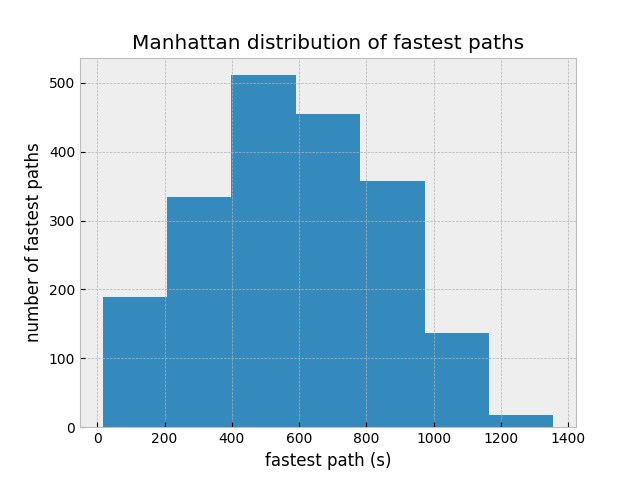
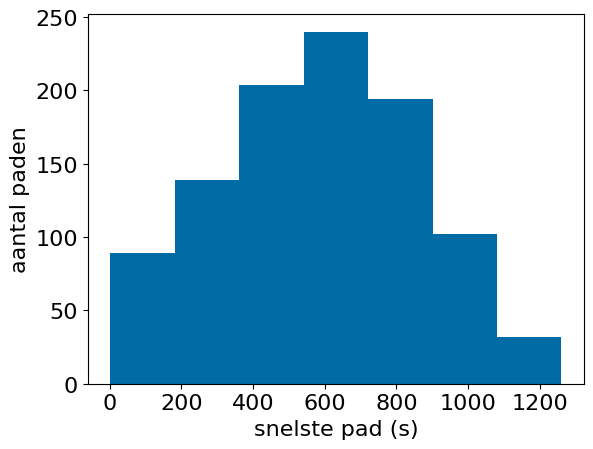
extra plotjes van aster en stratified sampling

diff --git a/generate_data_greedy.py b/generate_data_greedy.py
@@ -13,6 +13,8 @@ import greedy_manhattan as gm
 import node_functions as nf
 import coordinate_functions as cf
 import gravity_pressure as gp
+import a_star
+
 
 import stratified_sampling as ss
 import matplotlib as mpl
@@ -83,14 +85,16 @@ def data_generator(name, functions, foldername, number_of_routes_pre_compute=80,
             reached_end_node[i] = 1
             result_stretch[i] = result / weight_path[i]
 
-    elif function == gtas.greedy_forwarding_then_a_star:
-      max_velocity = fgd.get_max_velocity(graph)
+    elif function == gtas.greedy_forwarding_then_a_star: #or function == a_star.A_star_priority_queue:
+
+      average_velocity = fgd.get_weigted_average_velocity(graph)
 
       for i in range(number_of_routes): # do the greedy functions
         start_time = time.time()
 
-        result, ratio_travelled = function(node_list[list_indices_start[i]], node_list[list_indices_end[i]], graph, max_velocity=max_velocity, ratio_travelled=True) # result like route weight of the desired path
-        
+        result, ratio_travelled = function(node_list[list_indices_start[i]], node_list[list_indices_end[i]], graph, velocity=average_velocity, ratio_travelled=True) # result like route weight of the desired path
+        #result, ratio_travelled = function(node_list[list_indices_start[i]], node_list[list_indices_end[i]], graph, velocity=average_velocity),1 # pure a star always finds a way
+
         ratio_travelled_list[i] = ratio_travelled
 
         if result != np.inf: # only calculate how long the path was once one was found with greedy forwarding  else takes so long   
@@ -177,6 +181,10 @@ def data_generator(name, functions, foldername, number_of_routes_pre_compute=80,
 
     arrived_percentage = arrived / values
 
+    font = { 'size'   : 16}
+
+    mpl.rc('font', **font)
+
     # the below plot will tell us which percentage of a route of a certain binned weight will arrive
     plt.hist(base[:-1], base, weights=arrived_percentage) 
     plt.xlabel('snelste reistijd (s)')
@@ -186,11 +194,12 @@ def data_generator(name, functions, foldername, number_of_routes_pre_compute=80,
     plt.clf() 
 
     # average stretch per bin 
-    plt.errorbar(base[:-1] + step_size/2, average_stretch, yerr=standard_dev_on_mean_stretch, linewidth=3) # the :-1 because we only plot the middle and end value + half is outside our plotting region
+    plt.errorbar(base[:-1] + step_size/2, average_stretch, yerr=standard_dev_on_mean_stretch, linewidth=3,ecolor='tab:purple', elinewidth=3, linestyle='--') # the :-1 because we only plot the middle and end value + half is outside our plotting region
     # +/2 because we want centered at center of bin
     plt.xlabel('snelste reistijd (s)')
     plt.ylabel('gemiddelde rek')
     plt.ylim(bottom=0)
+
     #plt.title(f'{name} average stretch')
     plt.savefig(f'./{foldername[x]}/{name}_average_stretch.png',bbox_inches='tight')
     plt.clf() 
@@ -207,18 +216,20 @@ def data_generator(name, functions, foldername, number_of_routes_pre_compute=80,
   # generate timing plot
   plt.bar(foldernames, timing_array)
   x = np.arange(len(foldernames))
-  plt.xticks(x, foldernames, fontsize='10', rotation=-35)
+  plt.xticks(x, foldernames, fontsize='13', rotation=-35)
   #plt.title(f'{name} execution time per succesful path')
-  plt.ylabel('execution time per path (s)')
+  plt.ylabel('uitvoeringstijd per pad (s)')
   plt.savefig(f'./speed_comparison/{name} greedy_execution_time_per_path.png', bbox_inches='tight')
   plt.clf()
   
-name_list = ['New Dehli','Nairobi', 'Rio de Janeiro', 'Brugge', 'Manhattan']
+#name_list = ['New Dehli','Nairobi', 'Rio de Janeiro', 'Brugge', 'Manhattan']
 
-functions = [gp.gravity_pressure] #,hr.hyperbolic_greedy_forwarding gf.greedy_forwarding ,gfwe.greedy_forwarding_with_edge_weight, gtas.greedy_forwarding_then_a_star,  grpf.greedy_forwarding_rpf, gm.manhattan_greedy_forwarding,gp.gravity_pressure]
+name_list = ['Brugge', 'Manhattan']
 
-foldernames = ['gravity_pressure'] #, 'normal_greedy','greedy_with_edge_weight','greedy_then_a_star', 'greedy_rpf', 'greedy_manhattan', 'greedy_hyperbolic','gravity_pressure', 'greedy_hyperbolic']
+functions = [gf.greedy_forwarding, gfwe.greedy_forwarding_with_edge_weight, ] #,hr.hyperbolic_greedy_forwarding gf.greedy_forwarding ,gfwe.greedy_forwarding_with_edge_weight, gtas.greedy_forwarding_then_a_star,  grpf.greedy_forwarding_rpf, gm.manhattan_greedy_forwarding,gp.gravity_pressure, gp.gravity_pressure]# a_star.A_star_priority_queue, 
 
+foldernames = ['normal_greedy', 'greedy_with_edge_weight', ] #, 'normal_greedy','greedy_with_edge_weight','greedy_then_a_star', 'greedy_rpf', 'greedy_manhattan', 'greedy_hyperbolic','gravity_pressure', 'greedy_hyperbolic']
+#'pure_A_star'
 for name in name_list:
-  data_generator(name, functions, foldernames,number_of_routes_pre_compute=10, step_size=150, amount_of_samples_per_bin=70)
+  data_generator(name, functions, foldernames,number_of_routes_pre_compute=50, step_size=150, amount_of_samples_per_bin=50)
   print(name)

diff --git a/compare_speed.py b/compare_speed.py
@@ -7,7 +7,7 @@ import stratified_sampling as ss
 
 import time
 import matplotlib.pyplot as plt
-from fix_graph_data import get_max_velocity
+from fix_graph_data import get_max_velocity, get_weigted_average_velocity
 import matplotlib as mpl
 
 mpl.style.use('tableau-colorblind10')
@@ -17,19 +17,23 @@ np.random.seed(42)
 compares the speed of dwpq dijkstra dijkstra of networkx and a star and asserts that they give back the right distance
 """
 
+
 def speed_comparator(name):
   graph_basic = nx.read_gpickle(f'./graph_pickle/{name}.gpickle')
   
   max_velocity = get_max_velocity(graph_basic) # gets the max velocity of all edges, useful for A*
+  average_vel = get_weigted_average_velocity(graph_basic)
+  
   node_list = list(graph_basic.nodes())
   
   _ , list_indices_start, list_indices_end = ss.stratified_sampling(50, 50, 150, node_list, graph_basic)
-
+  assert 1 == 2
   dijkstra_networkx_speed = 0
   dijkstra_speed = 0
   dwpq_speed =  0
   a_star_speed = 0
   a_star_wpq_speed = 0
+  a_star_average_vel = 0
   
   for i in range(len(list_indices_start)):
   
@@ -53,13 +57,35 @@ def speed_comparator(name):
     e = a_star.A_star_priority_queue(node_list[list_indices_start[i]], node_list[list_indices_end[i]], graph_basic, max_velocity)
     a_star_wpq_speed += time.time() - start
 
-    assert abs(b-c) < 10**-2 and abs(d-c) < 10**-2 and abs(a-c) < 10**-2 and abs(a-e) < 10**-2, f'{c} dwpq and {b} normal dijkstra {d} astar {a} networkx {e} astar wpq'
+    start = time.time()
+    f = a_star.A_star_priority_queue(node_list[list_indices_start[i]], node_list[list_indices_end[i]], graph_basic, average_vel)
+    a_star_average_vel += time.time() - start
     
+    assert abs(b-c) < 10**-2 and abs(d-c) < 10**-2 and abs(a-c) < 10**-2 and abs(a-e) < 10**-2, f'{c} dwpq and {b} normal dijkstra {d} astar {a} networkx {e} astar wpq'
 
-  plt.bar(['Networkx dijkstra', 'Dijkstra', 'Dijkstra w/ pq', 'A*', 'A* w/ pq'],np.array([dijkstra_networkx_speed, dijkstra_speed, dwpq_speed, a_star_speed, a_star_wpq_speed])/len(list_indices_start))
-  plt.title(f'{name} execution time per path')
-  plt.xlabel('method')
-  plt.ylabel('execution time per path (s)')
-  plt.savefig(f'./speed_comparison/{name}_execution_time_per_path.png')
+  font = { 'size'   : 16}
+
+  mpl.rc('font', **font)
+
+  naming = ['Networkx Dijkstra', 'Dijkstra', 'Dijkstra met pq', 'A*', 'A* met pq','A* niet-toelaatbaar']
+  plt.bar(naming,np.array([dijkstra_networkx_speed, dijkstra_speed, dwpq_speed, a_star_speed, a_star_wpq_speed, a_star_average_vel])/len(list_indices_start))
+  x = np.arange(len(naming))
+  plt.xticks(x, naming, fontsize='14', rotation=-35)
+
+
+  plt.ylabel('uitvoeringstijd per pad (s)')
+  plt.savefig(f'./speed_comparison/{name}_execution_time_per_path.png',bbox_inches='tight')
+  plt.clf()
+  # tweede figuur want conventionele dijkstra is wat te groot voor de figuur
+
+  naming = ['Networkx Dijkstra', 'Dijkstra met pq', 'A*', 'A* met pq','A* niet-toelaatbaar']
+  plt.bar(naming,np.array([dijkstra_networkx_speed, dwpq_speed, a_star_speed, a_star_wpq_speed, a_star_average_vel])/len(list_indices_start))
+  x = np.arange(len(naming))
+  plt.xticks(x, naming, fontsize='14', rotation=-35)
+
+
+  plt.ylabel('uitvoeringstijd per pad (s)')
+  plt.savefig(f'./speed_comparison/{name}_execution_time_per_path_ingezoomd.png',bbox_inches='tight')
+  plt.clf()
 
 speed_comparator('Brugge')

diff --git a/a_star.py b/a_star.py
@@ -6,7 +6,7 @@ from queue import PriorityQueue
 this file is able to calculate the shortest time using a star with the euclidian distance with and without priority queue
 """
 
-def A_star(id1, id2, graph, max_velocity): # id1 is start node id2 is go to node
+def A_star(id1, id2, graph, velocity): # id1 is start node id2 is go to node
     inf = np.inf
     # heuristic function 
     total_nodes = graph.nodes()
@@ -25,7 +25,7 @@ def A_star(id1, id2, graph, max_velocity): # id1 is start node id2 is go to node
         g_score[node] = inf
     
     g_score[id1] = 0
-    f_score[id1] = cf.euclid_distance(id1, id2, graph) / max_velocity * 3.6 # f score is a lower bound
+    f_score[id1] = cf.euclid_distance(id1, id2, graph) / velocity * 3.6 # f score is a lower bound
     empty_set = set()
 
     while open_set != empty_set:
@@ -50,7 +50,7 @@ def A_star(id1, id2, graph, max_velocity): # id1 is start node id2 is go to node
             if tentative_g_score < g_score[neighbor_node]:
                 came_from[neighbor_node] = current_node
                 g_score[neighbor_node] = tentative_g_score # CHANGE TO MAX VEL
-                f_score[neighbor_node] = g_score[neighbor_node] + cf.euclid_distance(neighbor_node, id2, graph) / max_velocity * 3.6 # this will make it a good lower bound
+                f_score[neighbor_node] = g_score[neighbor_node] + cf.euclid_distance(neighbor_node, id2, graph) / velocity * 3.6 # this will make it a good lower bound
 
                 open_set.add(neighbor_node) # this will check if already in it so just add it
     print("hier")
@@ -61,7 +61,7 @@ def A_star(id1, id2, graph, max_velocity): # id1 is start node id2 is go to node
 
 
 
-def A_star_priority_queue(id1, id2, graph, max_velocity): # id1 is start node id2 is go to node
+def A_star_priority_queue(id1, id2, graph, velocity): # id1 is start node id2 is go to node
     inf = np.inf
     # heuristic function 
     total_nodes = graph.nodes()
@@ -82,7 +82,7 @@ def A_star_priority_queue(id1, id2, graph, max_velocity): # id1 is start node id
         g_score[node] = inf
     
     g_score[id1] = 0
-    f_score[id1] = cf.euclid_distance(id1, id2, graph) / max_velocity * 3.6 # f score is a lower bound
+    f_score[id1] = cf.euclid_distance(id1, id2, graph) / velocity * 3.6 # f score is a lower bound
     priority_queue.put((f_score[id1], id1))
     
 
@@ -104,7 +104,7 @@ def A_star_priority_queue(id1, id2, graph, max_velocity): # id1 is start node id
             if tentative_g_score < g_score[neighbor_node]:
                 came_from[neighbor_node] = current_node
                 g_score[neighbor_node] = tentative_g_score # CHANGE TO MAX VEL
-                f_score[neighbor_node] = g_score[neighbor_node] + cf.euclid_distance(neighbor_node, id2, graph) / max_velocity * 3.6 # this will make it a good lower bound
+                f_score[neighbor_node] = g_score[neighbor_node] + cf.euclid_distance(neighbor_node, id2, graph) / velocity * 3.6 # this will make it a good lower bound
                 priority_queue.put((f_score[neighbor_node], neighbor_node))
 
         visited.add(current_node)

diff --git a/stratified_sampling.py b/stratified_sampling.py
@@ -1,11 +1,10 @@
 import networkx as nx
 import numpy as np
-
+import matplotlib.pyplot as plt
+import matplotlib as mpl
 import coordinate_functions as cf
 from scipy.optimize import curve_fit
 
-amount_of_samples_per_bin = 50
-number_of_routes_pre_compute = 80
 np.random.seed(42)
 
 def function(x, A): 
@@ -22,7 +21,9 @@ one can fasten the selection procedure by quite some time one can use: osmnx.dis
 """
 
 def stratified_sampling(amount_of_samples_per_bin, number_of_routes_pre_compute, step_size, node_list, graph):
-
+    
+    np.random.seed(42)
+    
     list_indices_start = np.random.randint(0, len(node_list), size=number_of_routes_pre_compute) # first generate random numbers this is quicker
     list_indices_end = np.random.randint(0, len(node_list), size=number_of_routes_pre_compute)
 
@@ -38,9 +39,27 @@ def stratified_sampling(amount_of_samples_per_bin, number_of_routes_pre_compute,
         # calculate the shortest distance once
         weight_path[i] = nx.shortest_path_length(graph, node_list[list_indices_start[i]], node_list[list_indices_end[i]], 'travel_time')
         distance[i] = cf.distance(node_list[list_indices_start[i]], node_list[list_indices_end[i]],graph)
+    
+
+    font = { 'size'   : 16}
+
+    mpl.rc('font', **font)
+    
+    mpl.style.use('tableau-colorblind10')
+    #plt.scatter(distance, weight_path, marker='x', s=17.5, c='tab:purple')
 
     popt, pcov = curve_fit(function, distance, weight_path) # your data x, y to fit
+    
+    """
+    xvals = np.arange(np.min(distance)-5, np.max(distance)+5) # step is 1 by defalult
+    plt.plot(xvals, xvals*popt,  linewidth=2.5)
+    plt.xlabel('hemelsbrede afstand (m)')
+    plt.ylabel('reistijd (s)')
+    plt.savefig('./stratified/rechtevenredig.png', bbox_inches='tight')
+    plt.clf()
+    """
 
+    
     list_indices_start = list(list_indices_start)
     list_indices_end = list(list_indices_end)
 

diff --git a/get_degree_distribution.py b/get_degree_distribution.py
@@ -1,26 +1,31 @@
 import matplotlib.pyplot as plt
 import numpy as np
-import fix_graph_data as fgd
+import networkx as nx
 
 import matplotlib as mpl
 mpl.style.use('tableau-colorblind10')
 
 def plot_degree_dist(name):
-  graph = fgd.load_graph(name)
+  graph = nx.read_gpickle(f'./graph_pickle/{name}.gpickle')
   
   degrees = np.zeros(len(graph.nodes()),dtype=int)
   
   for i, vertex in enumerate(graph.nodes()): # for every node get how many neighbors
     degrees[i] = graph.degree(vertex)
-  bins = [i for i in range(1, np.max(degrees)+2)] #
+  print(degrees)
+  bins = np.array([i for i in range(1, np.max(degrees)+1)]) #
+  font = { 'size'   : 16}
 
-  plt.hist(degrees, bins=bins)
-  plt.xlabel('degree')
-  plt.ylabel('number of nodes')
-  plt.title(f'{name} node distribution')
-  plt.savefig(f'./degree_distribution/{name}_node_distribution.png')
+  mpl.rc('font', **font)
+  x = np.arange(len(bins))
+  plt.hist(degrees, bins=bins, align='left')
+  plt.xlabel('graad')
+  plt.ylabel('aantal')
+  plt.xticks(x, bins-1)
+  plt.savefig(f'./degree_distribution/{name}_node_distribution.png', bbox_inches='tight')
   plt.clf()
-name_list = ['new_dehli_5km_(28.644800, 77.216721)', 'nairobi_5km_(-1.28333, 36.81667)',  'manhattan_5km_(40.754932, -73.984016)', 'rio_de_janeiro_5km_(-22.908333, -43.196388)', 'brugge_5km_(51.209348, 3.224700)']
+
+name_list = ['New Dehli','Nairobi', 'Rio de Janeiro', 'Brugge', 'Manhattan']
 
 for name in name_list:
   plot_degree_dist(name)

diff --git a/route_time_per_city.py b/route_time_per_city.py
@@ -10,7 +10,11 @@ name_list = ['New Dehli', 'Nairobi', 'Manhattan', 'Rio de Janeiro', 'Brugge']
 
 def get_route_weight(name, number_of_routes): # generates the data for the desired function
   graph_basic =  nx.read_gpickle(f'./graph_pickle/{name}.gpickle')
-  
+
+  font = { 'size'   : 16}
+
+  mpl.rc('font', **font)
+
   node_list = list(graph_basic.nodes())
   list_indices_start = np.random.randint(0, len(node_list), size=number_of_routes) # first generate random numbers this is quicker
   list_indices_end = np.random.randint(0, len(node_list), size=number_of_routes)
@@ -31,14 +35,14 @@ def get_route_weight(name, number_of_routes): # generates the data for the desir
 
   # how many routes are in each bin
   plt.hist(weight_path, base)
-  plt.xlabel('fastest path (s)')
-  plt.ylabel('number of fastest paths')
-  plt.title(f'{name} distribution of fastest paths')
-  plt.savefig(f'./route_weight/{name}_route_weight_distribution.png')
+  plt.xlabel('snelste pad (s)')
+  plt.ylabel('aantal paden')
+
+  plt.savefig(f'./route_weight/{name}_route_weight_distribution.png', bbox_inches='tight')
   plt.clf()
-  print('done') 
+
 
 for name in name_list:
-  get_route_weight(name, 2000) 
+  get_route_weight(name, 1000) 
 
   

diff --git a/greedy_then_a_star.py b/greedy_then_a_star.py
@@ -9,7 +9,7 @@ import a_star
 does normal greedy forwarding till not getting closer then do a star
 """
 
-def greedy_forwarding_then_a_star(id1, id2, graph, max_velocity, ratio_travelled=False, plot_stuck=False): # id1 is start node id2 is go to node, plot stuck never used cause never stuck
+def greedy_forwarding_then_a_star(id1, id2, graph, velocity, ratio_travelled=False, plot_stuck=False): # id1 is start node id2 is go to node, plot stuck never used cause never stuck
   inf = np.inf
   total_nodes = graph.nodes()
   
@@ -34,7 +34,7 @@ def greedy_forwarding_then_a_star(id1, id2, graph, max_velocity, ratio_travelled
       """
       if the node was already visited or the node that will be visited does not seem to have any neighbors
       """
-      sec_travelled += a_star.A_star(current_node, id2, graph, max_velocity)
+      sec_travelled += a_star.A_star(current_node, id2, graph, velocity)
       if ratio_travelled:
         return sec_travelled, 1 # reached the end like always for A*
   

diff --git a/fix_graph_data.py b/fix_graph_data.py
@@ -56,3 +56,13 @@ def load_graph(name):
 def get_max_velocity(graph):
   return max(np.array(list(graph.edges(data = 'speed_kph')), ndmin=2)[:,2])
 
+def get_weigted_average_velocity(graph):
+    
+    tot_weights = 0
+    weighted_sum = 0
+    
+    for _,_, data in graph.edges(data=True):
+        weighted_sum += data['speed_kph'] * data['travel_time']
+        tot_weights += data['travel_time']
+
+    return weighted_sum / tot_weights

diff --git a/hyperbolic_embedder.py b/hyperbolic_embedder.py
@@ -13,7 +13,7 @@ import sys
 
 mpl.style.use('tableau-colorblind10')
 
-mp.prec = 100 # sets the precision 
+mp.prec = 1800 # sets the precision 
 random.seed(42)
 """
 calculates a hyperbolic embedding for a undirected graph based on it's travel time
